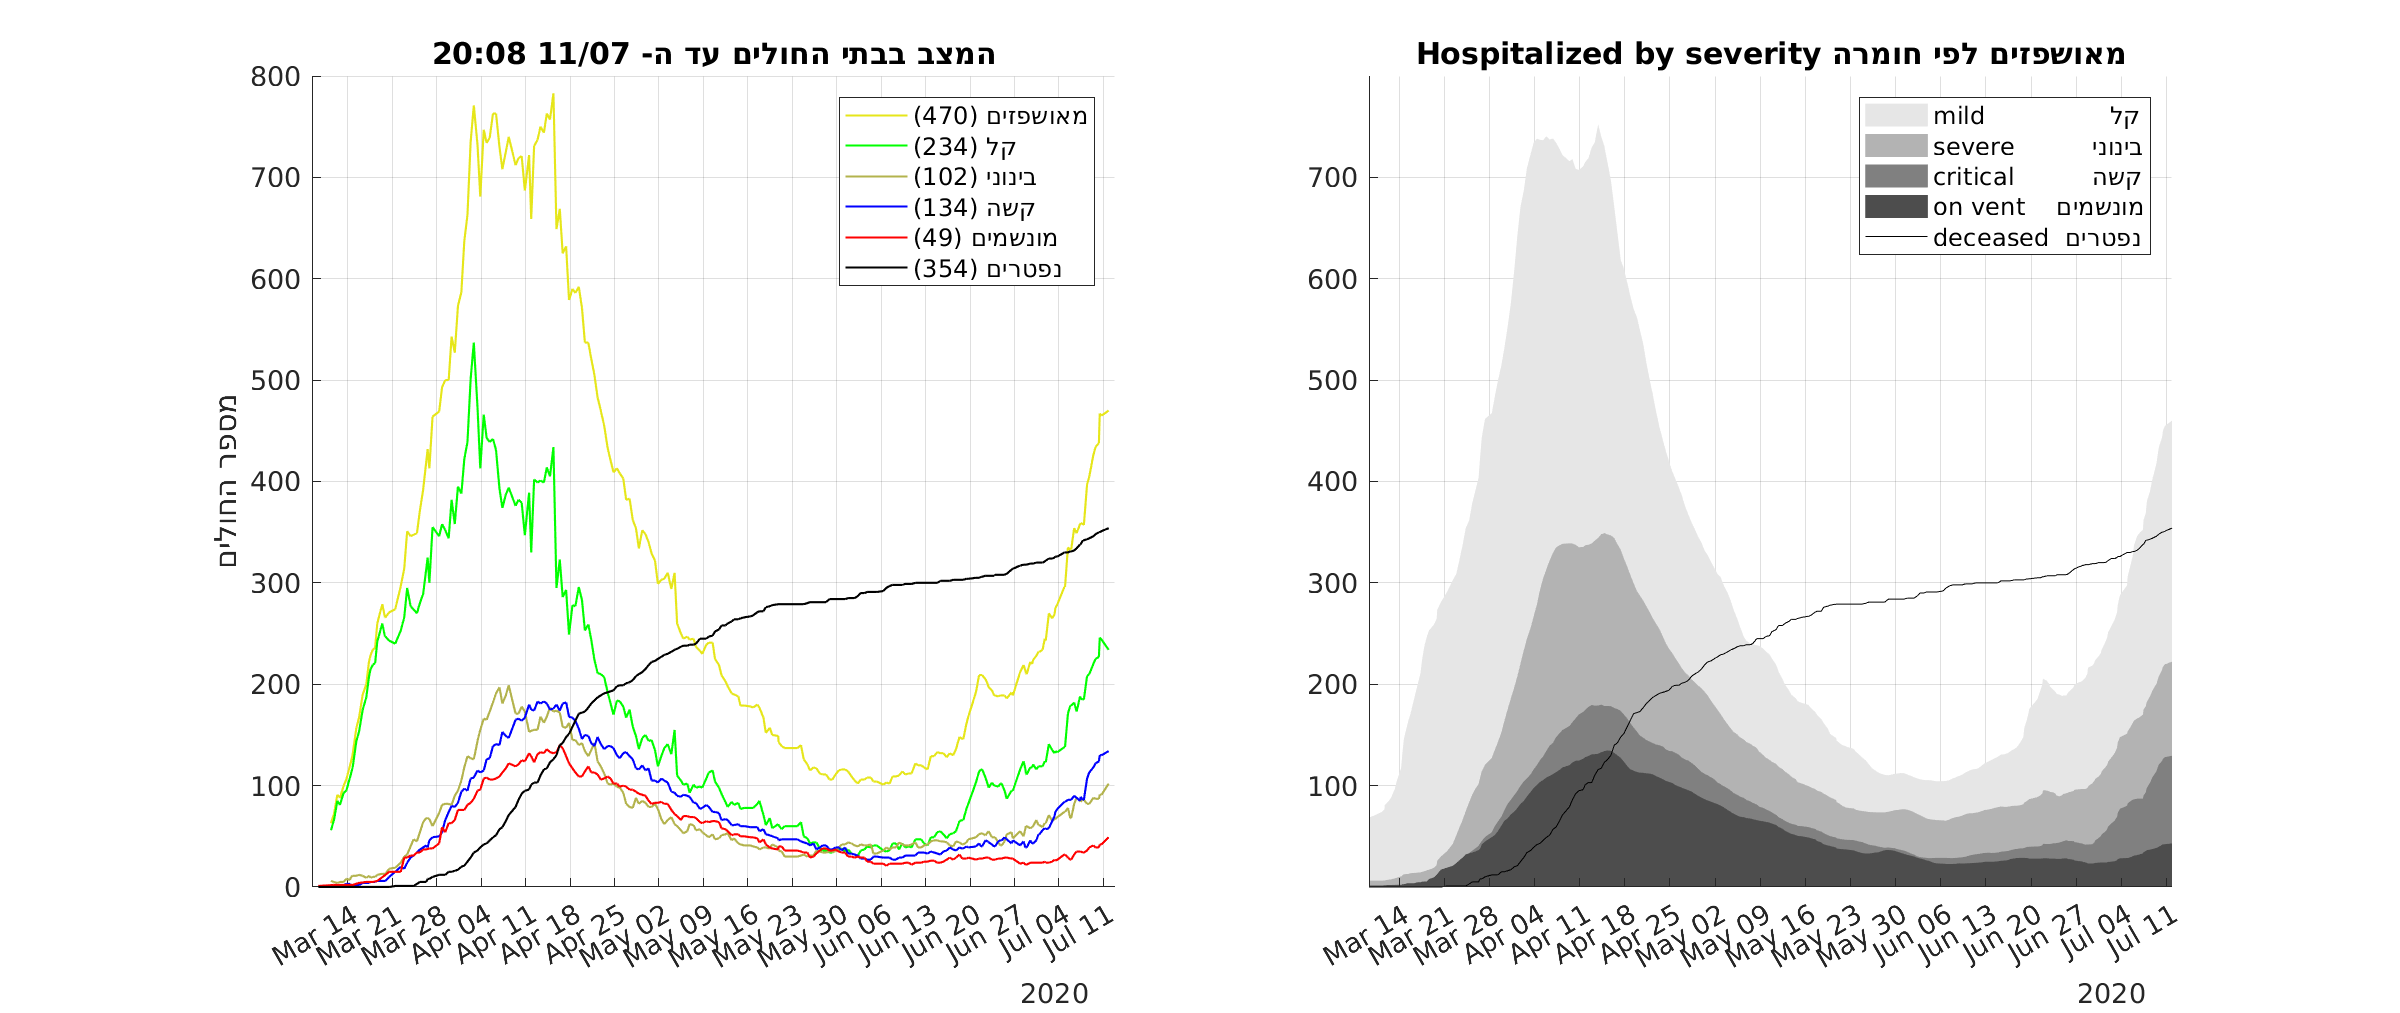
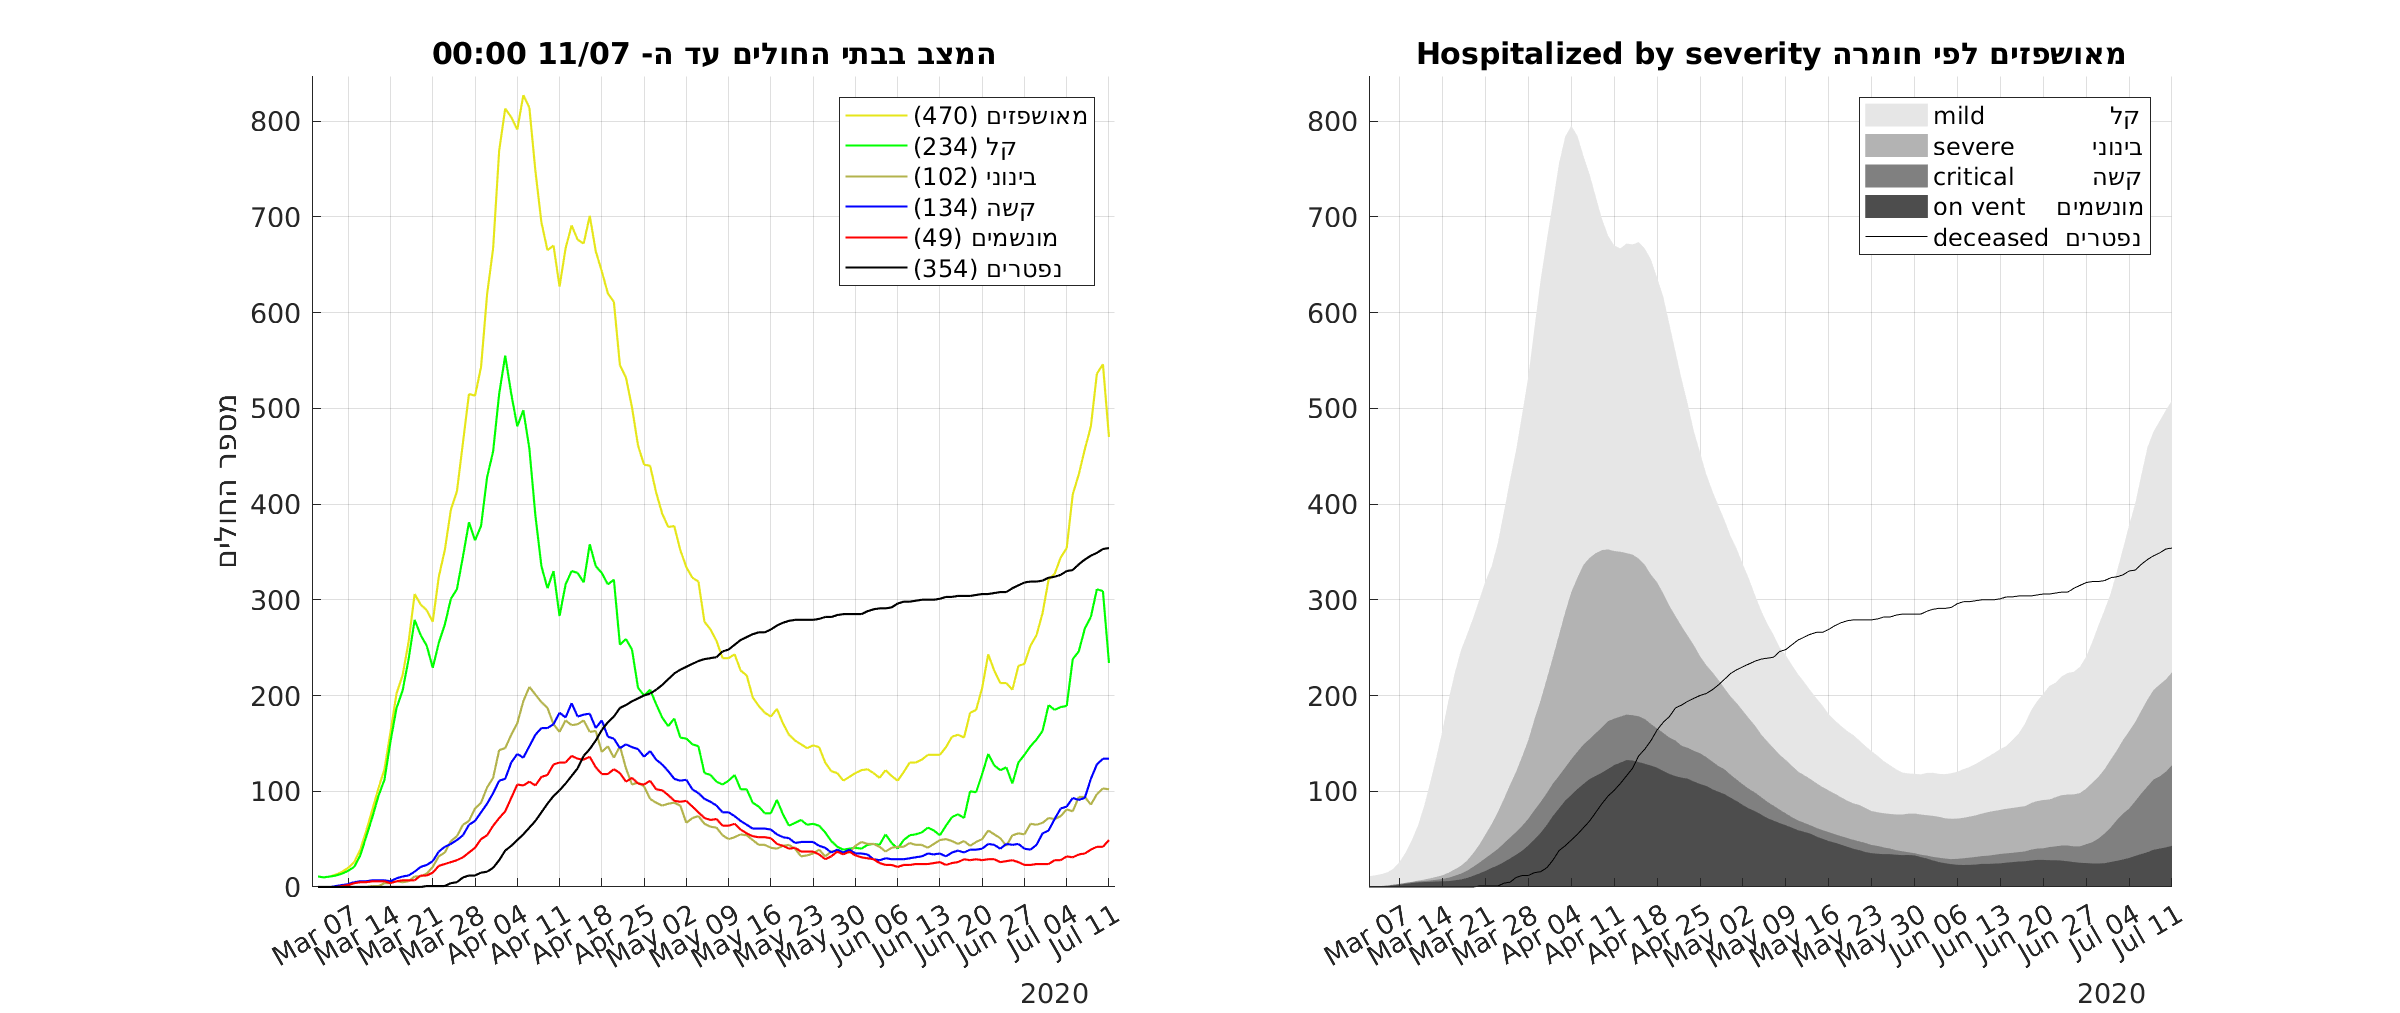
daily update

diff --git a/docs/myCountry.html b/docs/myCountry.html
@@ -111,12 +111,13 @@ body, h1,h2,h3,h4,h5,h6 {font-family: "Montserrat", sans-serif}
   
 </nav>
 
-<!-- Navbar on small screens (Hidden on medium and large screens) -->
+<!-- Navbar on small screens (Hidden on medium and large screens) 
 <div class="w3-top w3-hide-large w3-hide-medium" id="myNavbar">
   <div class="w3-bar w3-black w3-opacity w3-hover-opacity-off w3-center w3-small">
     <a href="https://yuval-harpaz.github.io/covid-19-israel-matlab/" class="w3-bar-item w3-button" style="width:25% !important">HOME</a>
   </div>
 </div>
+-->
 
 <!-- Page Content -->
 <div class="w3-padding-large" id="main">
@@ -126,7 +127,7 @@ body, h1,h2,h3,h4,h5,h6 {font-family: "Montserrat", sans-serif}
     <h4 align="right">מצב המונשמים - (בחמשת הימים האחרונים) כל יום יש כ 3 מונשמים יותר  </h4><br>
     <h4 align="right">מצב התמותה - (בחמשת הימים האחרונים) כ 3 נפטרים ליום </h4><br>
     <img src="myCountry.png" alt="highest" class="w3-image" width="1600">
-    <h4 align="right">מימין גרף הסוכם את כל המאושפזים. משמאל אותם הנתונים מוצגים עבור כל קבוצה בנפרד. הגרף מימין מוחלק כדי לראות טרנד כללי. משמאל קל יותר לראות שינויים קצרים, כמו המחזוריות השבועית במספר המאושפזים במצב קל </h4>
+    <h4 align="right">מימין גרף מוחלק הסוכם את כל המאושפזים. משמאל אותם הנתונים ללא החלקה, מוצגים עבור כל קבוצה בנפרד, חוץ מחולים קשים הכוללים את המונשמים  </h4>
   </header>
   <header class="w3-container w3-padding-32 w3-center w3-black" id="home">
     <h1 class="w3-jumbo">אחוז הבדיקות החיוביות</h1>

diff --git a/code/covid_Israel.m b/code/covid_Israel.m
@@ -1,7 +1,10 @@
-function covid_Israel(saveFigs)
+function covid_Israel(saveFigs,listName)
 % plot 20 most active countries
 if ~exist('saveFigs','var')
     saveFigs = false;
+end
+if ~exist('listName','var')
+    listName = 'data/Israel/Israel_ministry_of_health.csv';
 end
 cd ~/covid-19-israel-matlab/
 myCountry = 'Israel';
@@ -18,7 +21,14 @@ for iCou = 1:length(mergedData)
 end
 iXtick = [1,showDateEvery:showDateEvery:length(timeVector)];
 pop = readtable('data/population.csv','delimiter',',');
-list = readtable('data/Israel/Israel_ministry_of_health.csv');
+list = readtable(listName);
+if contains(listName,'dashboard_timeseries')
+    list.Properties.VariableNames([6,8:11]) = {'hospitalized','critical','severe','mild','on_ventilator'};
+    list.deceased = nan(height(list),1);
+    list.deceased(~isnan(list.CountDeath)) = cumsum(list.CountDeath(~isnan(list.CountDeath)));
+    i1 = find(~isnan(list.hospitalized),1);
+    list = list(i1:end,:);
+end
 
 %% plot israel only
 desiredDates = fliplr(dateshift(list.date(end),'end','day'):-7:dateshift(list.date(1),'end','day'));
@@ -44,6 +54,7 @@ plot(list.date(idx),list.deceased(idx),'k','linewidth',1);
 
 set(gca,'XTick',dateshift(list.date(ixt),'start','day'),'FontSize',13)
 xlim([list.date(1)-1 list.date(end)+1])
+ylim([0 max(list.hospitalized)+20])
 % xtickangle(45)
 grid on
 box off
@@ -78,10 +89,11 @@ legend('mild                קל','severe          בינוני','critical      
     'on vent    מונשמים','deceased  נפטרים','location','northeast')
 box off
 xTick = fliplr(dateshift(list.date(end),'start','day'):-7:list.date(1));
-set(gca,'XTick',xTick,'fontsize',13,'YTick',100:100:max(hosp))
+set(gca,'XTick',xTick,'fontsize',13,'YTick',100:100:max(list.hospitalized)+20)
 xtickangle(30)
 grid on
 xlim([list.date(1) list.date(end)])
+ylim([0 max(list.hospitalized)+20])
 title('Hospitalized by severity מאושפזים לפי חומרה')
 %%
 warning on

diff --git a/code/covid_loop.m b/code/covid_loop.m
@@ -8,7 +8,7 @@ while true
         covid_Israel_ministry;
         listPost = readtable('data/Israel/Israel_ministry_of_health.csv');
         if ~isequal(listPre(end,1),listPost(end,1))
-            covid_Israel(1);
+            covid_Israel(1,'data/Israel/dashboard_timeseries.csv');
             covid_update_html;
             close all
             disp('updated');

diff --git a/code/covid_daily_update.m b/code/covid_daily_update.m
@@ -8,7 +8,7 @@ y = covid_news(saveFigs);
 covid_regions;
 covid_realigned(y,saveFigs)
 covid_Israel_ministry;
-covid_Israel(saveFigs);
+covid_Israel(saveFigs,'data/Israel/dashboard_timeseries.csv');
 if saveFigs
     covid_update_html;
 end
